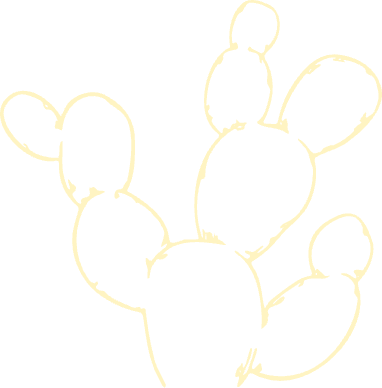
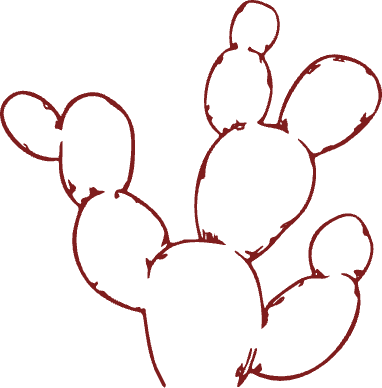
revamped ui with given changes

diff --git a/src/data/navigation.ts b/src/data/navigation.ts
@@ -20,8 +20,13 @@ export const navigationData: NavigationContent = {
       },
       {
         text: 'catering',
-        // Figma 2083:1819 — plain link, no dropdown chevron.
         href: '/catering',
+        links: [
+          { text: 'Parties & Celebrations', href: '/catering/parties' },
+          { text: 'Corporate Catering', href: '/catering/corporate' },
+          { text: 'Large Groups', href: '/catering/large-groups' },
+          { text: 'Taco Bar', href: '/catering/taco-bar' },
+        ],
       },
       {
         text: 'events',
@@ -71,6 +76,16 @@ export const navigationData: NavigationContent = {
         ],
       },
       {
+        title: 'catering',
+        links: [
+          { text: 'Catering Overview', href: '/catering' },
+          { text: 'Parties & Celebrations', href: '/catering/parties' },
+          { text: 'Corporate Catering', href: '/catering/corporate' },
+          { text: 'Large Groups', href: '/catering/large-groups' },
+          { text: 'Taco Bar', href: '/catering/taco-bar' },
+        ],
+      },
+      {
         title: 'locations',
         links: [
           { text: 'Wahiawa', href: '/locations/wahiawa' },
@@ -81,8 +96,8 @@ export const navigationData: NavigationContent = {
         title: 'el ranchero',
         links: [
           { text: 'Our Story', href: '/about' },
-          { text: 'Catering', href: '/catering' },
           { text: 'Order Online', href: '/order-online' },
+          { text: 'Reviews', href: '/reviews' },
           { text: 'Blog', href: '/blog' },
           { text: 'Contact', href: '/contact' },
         ],

diff --git a/src/assets/styles/tailwind.css b/src/assets/styles/tailwind.css
@@ -331,6 +331,13 @@
   --aw-band-btn-hover-text: var(--aw-color-bg-section-green);
 }
 
+/* Deepest maroon — site footer. Same contrast flips as the maroon band. */
+@utility bg-footer {
+  background-color: var(--aw-color-bg-footer);
+  --color-accent: var(--aw-color-text-contrast);
+  --color-accent-hover: var(--aw-color-text-contrast);
+}
+
 @utility bg-card-dark {
   background-color: var(--aw-color-bg-card-dark);
 }
@@ -673,7 +680,7 @@
 /* Site-wide CTA hover — used by Button.astro via btn / btn-* utilities.
    Color tokens per variant; motion (200ms ease + 1px lift) is shared. */
 @utility btn {
-  @apply inline-flex items-center justify-center rounded-full border-2 font-sans font-semibold uppercase text-center leading-none py-6 px-7 cursor-pointer;
+  @apply inline-flex items-center justify-center rounded-none border-2 font-sans font-semibold uppercase text-center leading-none py-6 px-7 cursor-pointer;
   font-size: var(--aw-text-button);
   letter-spacing: var(--aw-tracking-button);
   transition-property: background-color, color, border-color, box-shadow, transform;

diff --git a/src/brand.ts b/src/brand.ts
@@ -49,6 +49,7 @@ export const brand = {
     page: '#FFFFFF', // white page
     sectionGrey: '#FEF3C7', // warm cream band
     sectionDark: '#7F1D1D', // maroon band
+    footer: '#541313', // deepest maroon — site footer
     sectionGreen: '#064E3B', // deep green band (emerald-900) — FAQ
     statBand: '#607B6B', // sage — hero stats band (Figma 2083:1676)
     card: '#FFFBEB', // cream
@@ -261,6 +262,7 @@ function rootVars(b: Brand): string {
     --aw-color-bg-section-white: ${rgb(c.page)};
     --aw-color-bg-section-grey: ${rgb(c.sectionGrey)};
     --aw-color-bg-section-dark: ${rgb(c.sectionDark)};
+    --aw-color-bg-footer: ${rgb(c.footer)};
     --aw-color-bg-section-green: ${rgb(c.sectionGreen)};
     --aw-color-bg-stat-band: ${rgb(c.statBand)};
     --aw-color-bg-card: ${rgb(c.card)};
